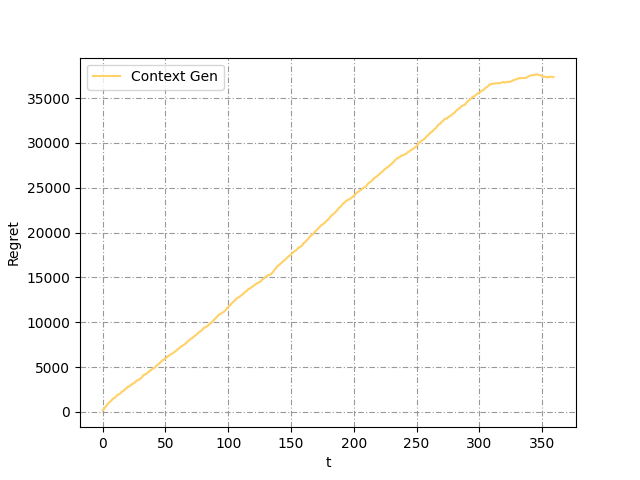
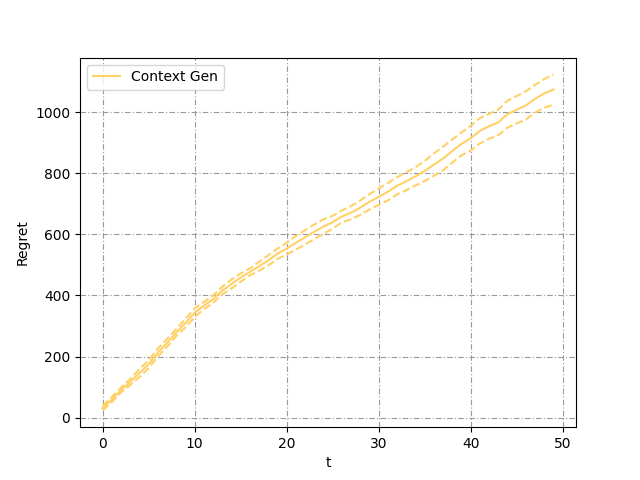
CI punto 4

diff --git a/experiments/experiment_4.py b/experiments/experiment_4.py
@@ -36,11 +36,13 @@ class Experiment4():
         self.reward_per_experiments = []
         self.regret_per_experiments = []
 
+        self.comulative_regret_per_experiment = []
+
         self.colors = self.cm.colors
         self.splits = None
 
-        self.T = 360 # number of days
-        self.n_experiments = 1
+        self.T = 365 # number of days
+        self.n_experiments = 20
 
     def run(self):
         pg = PersonGenerator()
@@ -58,7 +60,7 @@ class Experiment4():
                     context_gen.init_context()
                     context_gen.generate() 
 
-                num_people = pg.generate_people_num(n=500)
+                num_people = pg.generate_people_num(n=100)
                
                 daily_reward = 0
                 daily_regret = 0
@@ -94,6 +96,8 @@ class Experiment4():
             self.reward_per_experiments.append(rewards)
             self.regret_per_experiments.append(regrets)
 
+            self.comulative_regret_per_experiment.append(np.cumsum(regrets))
+
             self.splits = context_gen.get_split_matrices()
 
     def _plot_splits(self):
@@ -125,6 +129,8 @@ class Experiment4():
         plt.xlabel("t")
         plt.ylabel("Regret")
         plt.plot(np.cumsum(np.mean(self.regret_per_experiments, axis=0)), label='Context Gen', color=self.colors[1])
+        plt.plot(1.96*np.std(self.comulative_regret_per_experiment, axis=0)/np.sqrt(self.n_experiments) + np.cumsum(np.mean(self.regret_per_experiments, axis=0)),self.colors[1],linestyle='dashed')
+        plt.plot(-1.96*np.std(self.comulative_regret_per_experiment, axis=0)/np.sqrt(self.n_experiments) + np.cumsum(np.mean(self.regret_per_experiments, axis=0)),self.colors[1],linestyle='dashed')
         plt.legend(loc=0)
         plt.grid(True, color='0.6', dashes=(5, 2, 1, 2))
         plt.savefig("img/experiments/experiment_4.png")
